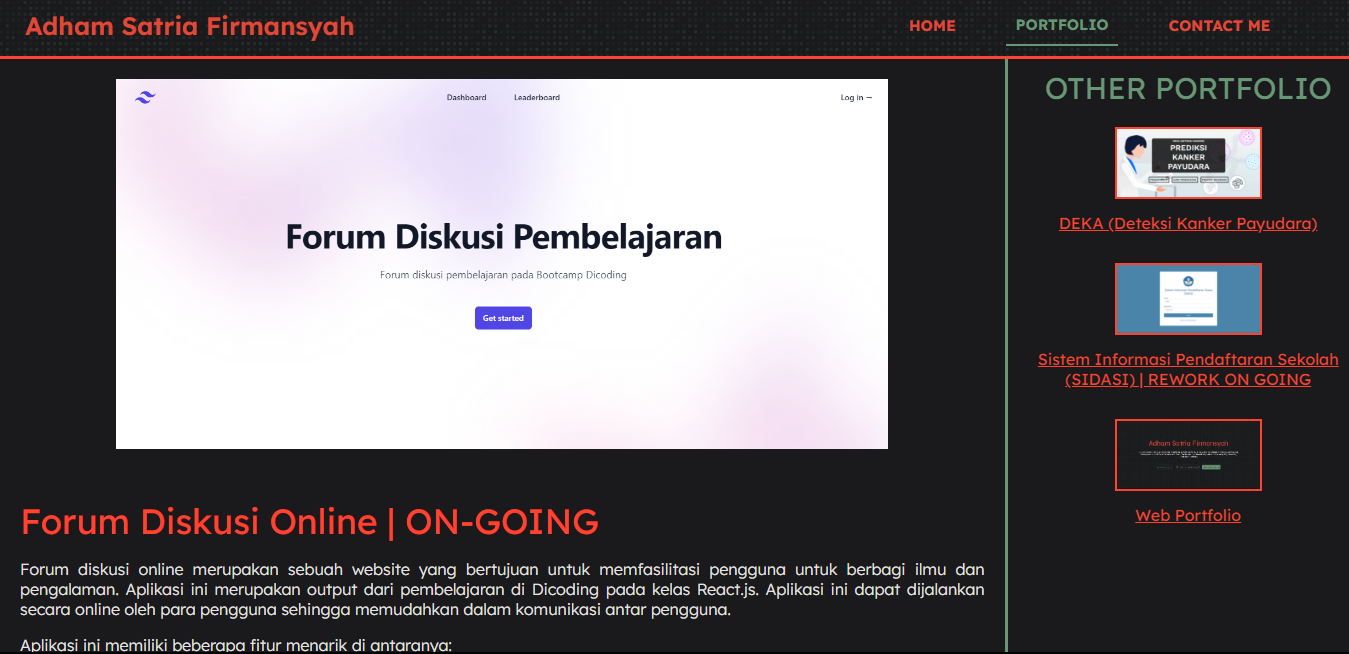
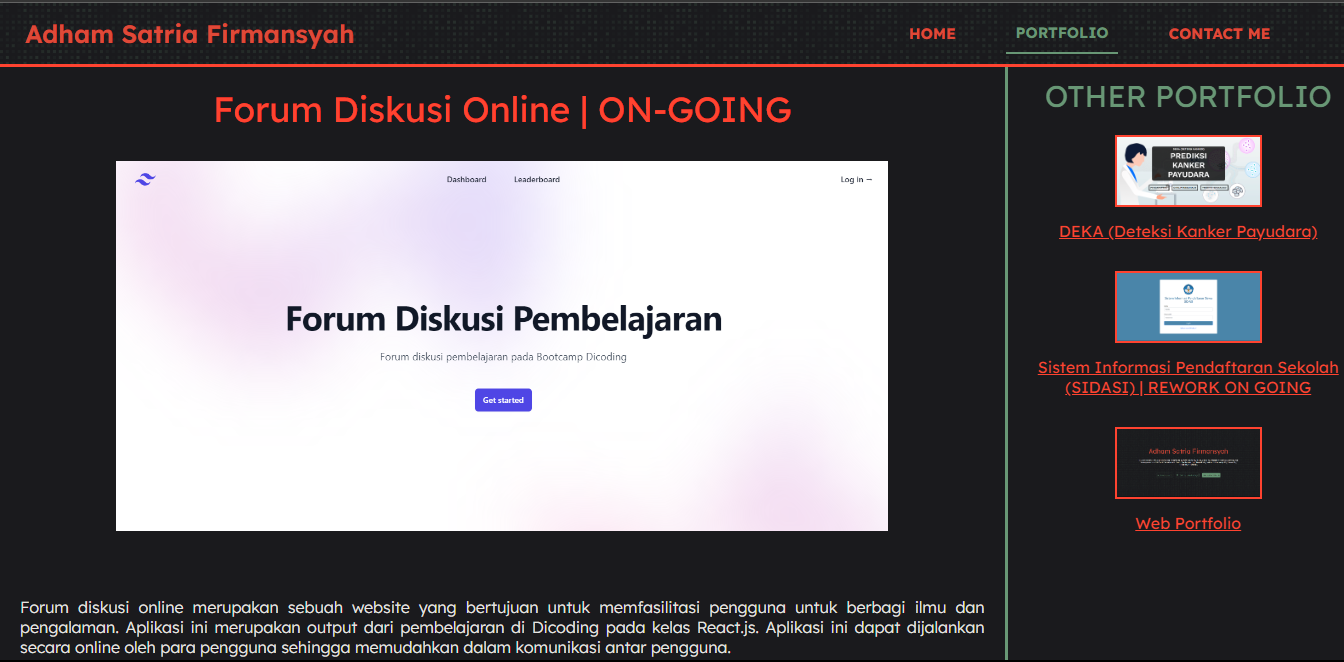
update code and styling

diff --git a/src/components/Content.jsx b/src/components/Content.jsx
@@ -18,8 +18,8 @@ function Content({ portfolios }) {
         {thisPortfolio
         && (
         <div className="main">
-          <img src={thisPortfolio.img} alt="" />
           <span className="title">{thisPortfolio.title}</span>
+          <img src={thisPortfolio.img} alt="" />
           <span className="desc">{parse(thisPortfolio.content)}</span>
         </div>
         )}

diff --git a/src/style/style.scss b/src/style/style.scss
@@ -253,6 +253,8 @@ $background: #1a1a1d;
                     .title {
                         color: #ff4330;
                         font-size: 35px;
+                        padding-bottom: 30px;
+                        text-align: center;
                     }
                     .desc {
                         color: #e6e5e1;
